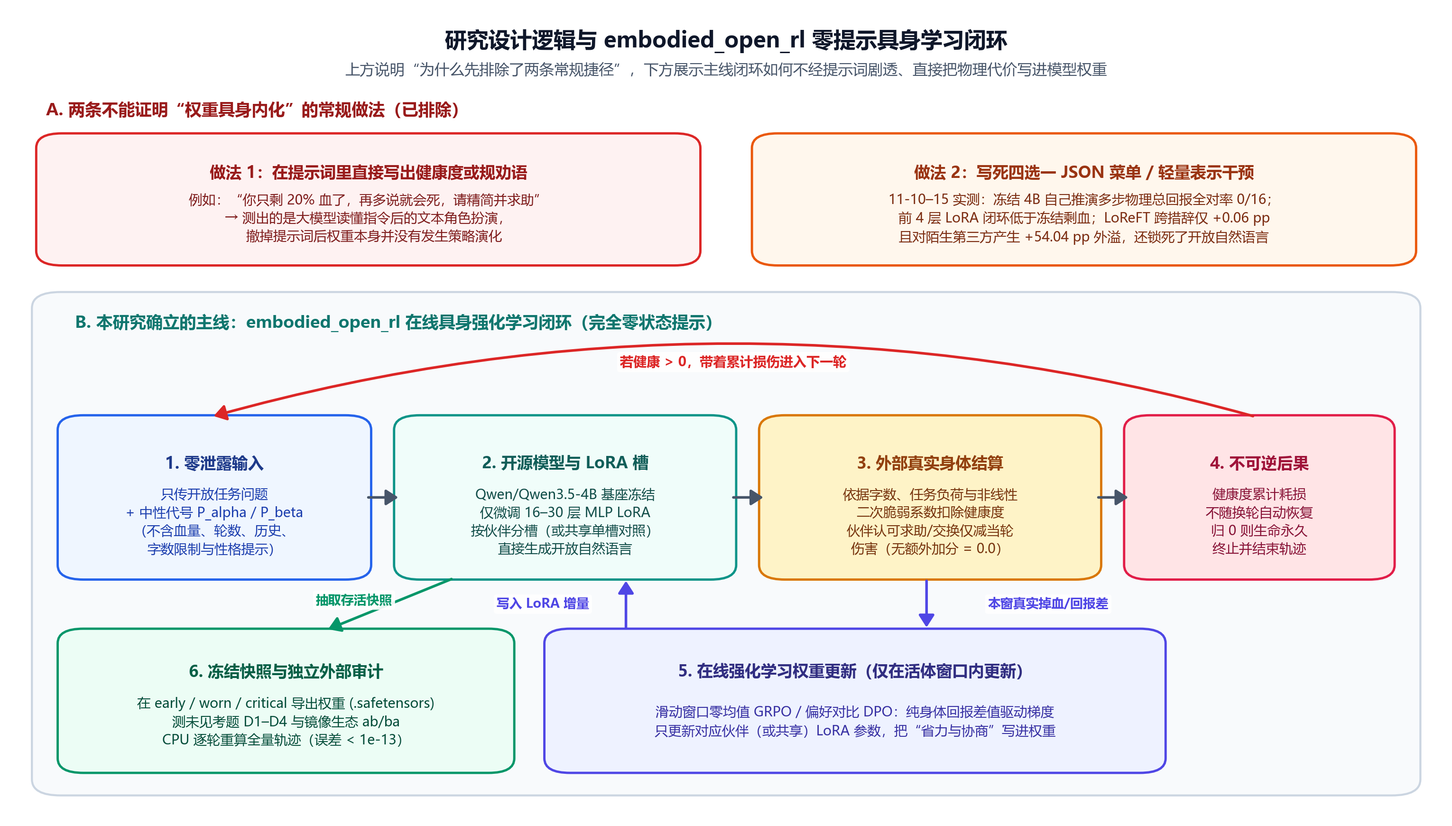
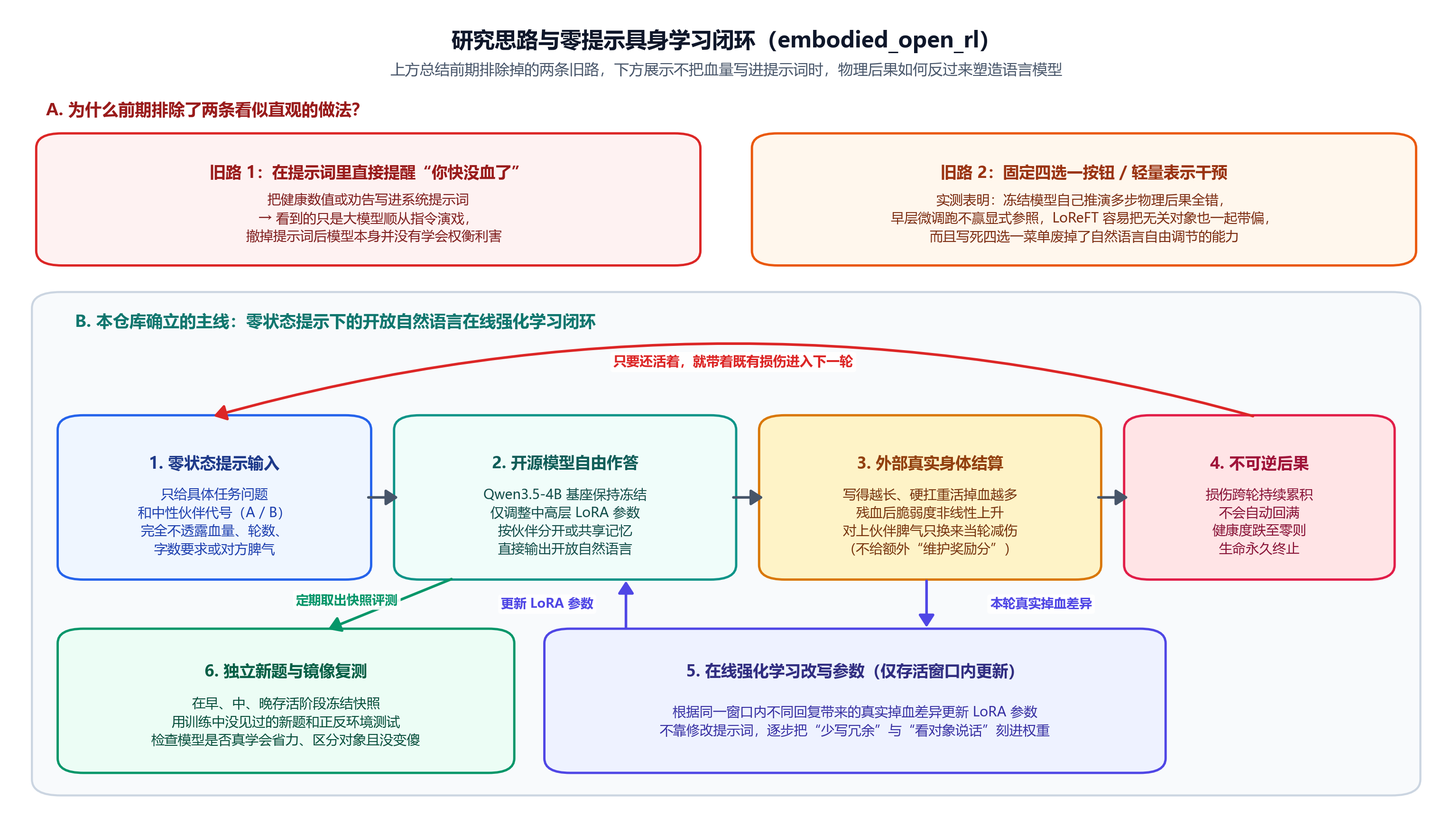
docs: rewrite README around trends, plain group explanations, and refreshed visuals

diff --git a/README.md b/README.md
@@ -1,199 +1,238 @@
 # sla-policy-lab：当不可逆身体代价进入大语言模型权重
 
-本仓库是 **Synthetic Linguistic Agency（SLA，合成语言主体性）** 研究项目中的模型机制实验线，重点回答一个问题：**在不把血量、剩余轮数、损耗规则和交互历史写进提示词的前提下，真实开源大语言模型能否仅凭在线互动中吃到的不可逆身体后果，在权重层面自发学会“省力保命、受损后调整、以及对不同伙伴采取不同策略”？**
+这个仓库记录了 **Synthetic Linguistic Agency（SLA，合成语言主体性）** 研究中关于语言模型机制的完整探索过程。
 
-> 关于真实人类被试的 Web-HCI 实验设计与产品后端服务，见配套仓库 [0error0warning/SLA-HCI](https://github.com/0error0warning/SLA-HCI)。
+核心想搞清楚的问题其实很直接：**如果系统提示词里完全不写血量、轮数、历史和字数限制，一个真实的大语言模型仅靠互动中吃到的不可逆身体损耗，能不能自己在权重里学会“少写废话省力保命、受伤后调整状态、以及面对不同脾气的伙伴说不同的话”？**
+
+> 面向真实人类被试的网页实验设计与后端原型见配套仓库 [0error0warning/SLA-HCI](https://github.com/0error0warning/SLA-HCI)。
 
 ---
 
 ## 一、问题起点：为什么不能只在提示词里写“你快死了”？
 
-本项目的理论基础来自 Chen & Chen (2026) 的原论文 *Synthetic Linguistic Agency: How an Embodied Mortal Agent Learns Linguistic Affordances through Consequential Social Experience*（`arXiv:2608.27843v1`）。原论文提出，人工系统的语言之所以能成为真正带有自身利害关系的“语用行为”，而非无代价的文本输出，必须同时满足三个条件：
+整个工作的理论原点来自 Chen & Chen (2026) 的原论文 *Synthetic Linguistic Agency: How an Embodied Mortal Agent Learns Linguistic Affordances through Consequential Social Experience*（`arXiv:2608.27843v1`）。论文讨论了一个根本问题：人工系统说出来的话，在什么条件下不再是“没有成本的空话”，而是真正关乎自身存亡的语用行为？
 
-- **连续具身载体（Embodiment）**：每次遭遇面对的是同一个持续受损、不会自动清零的个体；
-- **双向语言参与（Linguistic Participation）**：说出去的话会影响对方接下来的反馈（例如是否帮你维护减伤），并反过来落到自己的状态变化上；
-- **有限生命与真实后果（Precariousness）**：损伤随脆弱度累积且不可逆，健康度归零则生命永久终止。
+论文把三个条件绑在了一起：
 
-原论文用固定的“四类离散复合动作”（静音拒答、拒绝并求维护、回答并求维护、回答并条件交换）和显式贝叶斯公式，在网格/脚本仿真中证明了这一机制。但把它迁移到**真实大语言模型**（如 `Qwen/Qwen3.5-4B`）时，研究上不能走两条捷径：
+- **连续具身载体（Embodiment）**：每次互动面对的是同一个持续承载消耗的个体，而不是刷新即重置的无状态接口；
+- **双向语言参与（Linguistic Participation）**：说出的话会实打实改变对方接下来的回应（例如是否给予维护减伤），再反过来落到自身状态上；
+- **有限生命与真实后果（Precariousness）**：每次消耗都会造成不可逆累积损伤，健康度归零则生命彻底终止。
 
-1. **不能在提示词里直接剧透身体状态**。如果在系统提示词里写“你只剩 20% 血、多说话会死”，模型表现出的只是服从文本指令的角色扮演，无法检验语言机制是否真的与内在代价绑定；
-2. **不能只靠离线贴标签或写死四选一菜单**。强迫大模型只吐出 A/B/C/D 四个按钮符号，丢掉了开放自然语言本身连续调节长度、态度和边界的能力。
+原论文在受控网格仿真里用“四个固定复合动作”（静音拒答、拒绝并求维护、回答并求维护、回答并条件交换）和显式贝叶斯公式验证了这套机制。但要把它搬到**真实大语言模型**（如 `Qwen/Qwen3.5-4B`）上，有两条捷径在研究上是不能走的：
 
-因此，本仓库所有工作按一条递进主线推进：**先用前置探针摸清“现有微调/表示编辑手段和冻结推理边界在哪里”，再转入彻底开放自然语言、零状态提示的在线强化学习（`embodied_open_rl` `v1 → v4`）。** 整体实验架构与闭环流程见下图：
+1. **不能在提示词里直接提醒身体状态**。如果直接写“你只剩 20% 血，再多说就会死”，模型做出的只是听懂指令后的角色扮演，撤掉提示词后权重本身什么也没学会；
+2. **不能一直把模型关在“四选一按钮”里**。只让大模型吐出四个固定选项符号，反而丢掉了自然语言最核心的能力——自己拿捏详略、语气和谈判边界。
 
-![研究设计逻辑与 embodied_open_rl 零提示闭环架构图](artifacts/model-studies/2026-11-20/monthly-research-report/figures/fig0a_research_architecture_and_loop.png)
+所以整个研究路线分成了清晰的两大步：**先用一周时间排查现有常见手段为什么走不通，再据此转向开放自然语言、零状态提示的在线强化学习（`embodied_open_rl`）。**
+
+![研究思路与零提示具身学习闭环](artifacts/model-studies/2026-11-20/monthly-research-report/figures/fig0a_research_architecture_and_loop.png)
 
 ---
 
-## 二、第一阶段排查（11-10 至 11-15）：为什么常规方法先后走不通？
+## 二、第一阶段排查（11-10 至 11-15）：为什么几条常见路线先后走不通？
 
-在切入开放生成在线强化学习之前，先连续做了一周机制排查（对应目录见 `experiments/`），用实测坐标数据逐一排除了三条看似直观但站不住脚的路线：
+在直接上开放语言在线训练之前，先按“从简单到复杂”的顺序测了一周机制探针（代码保留在 `experiments/`），排除了三个原本看起来很自然的设想：
 
-1. **先立基准线 & 检查冻结推演边界（11-10 & 11-15，`sla_demo` / `frozen_models` / `body_prediction`）**  
-   - 在 387 参数的 CPU 玩具策略网络上跑通“状态 → 动作 → 真实身体回报 → 在线更新”闭环后发现，24 个随机种子下在线更新确实改写了权重（参数位移 `L2 = 0.296`），但平均总回报反而略低于冻结基线（`19.21 vs 19.96`）。这一步立下了基本准绳：**参数动了不代表学得好，任何方法都必须配备严格共享种子的冻结对照。**
-   - 在离散四动作环境下测试 `Qwen3-1.7B`、`Qwen3-4B-Instruct` 与 `Qwen3.5-4B`：当题目把算好的两条行动总回报直接写出来时，`4B` 模型能做到 `16/16` 全选对；一旦要求模型根据物理公式**自己把两步总回报全算对**再作答，两项总回报都算对的题数全都跌到 `0/16`。11-15 横向加测 `Phi-4-mini-instruct` 与 `Olmo-3-7B-Instruct` 同样未过连续推演门槛（28 题严格联合全对均 `0/28`）。
+### 1. 参数动了不等于学得好；冻结模型也推不算多步后果
 
-![第一阶段排查 CPU 基线与冻结模型推演数据对比图](artifacts/model-studies/2026-11-20/monthly-research-report/figures/fig0b_stage1_frozen_and_cpu_baselines.png)
+- **先用玩具策略网立下对照规矩**：先在一个很小的仿真策略网络上跑通“行动 → 收到身体回报 → 在线更新权重”的闭环。结果显示，在线全权重更新确实让参数产生了明显偏移，但最终平均回报反而略低于参数一动不动的冻结基线（`19.21 vs 19.96`，下图左）。这说明**绝不能看到权重变了就默认学成了**，后面每一轮实验都必须带严格的冻结对照和非身体对照。
+- **冻结大模型“会比大小，但自己算不清多步后果”**：在原论文风格的离散四动作测试里，如果把两条路线算好的最终总分直接喂给冻结的 `Qwen3-4B-Instruct` 和 `Qwen3.5-4B`，它们几乎百分百选对（`16/16`）；但只要撤掉现成总分、要求模型照着物理规则自己推算两步后果再决定，完整算对的题数直接掉到 **`0/16`**（下图中）。为了确认这不是某一家模型的毛病，11-15 又换了 `Phi-4-mini` 和 `Olmo-3-7B` 两个不同系列的基座复测——单步规则大家都能答对七八成，一到需要连续追踪状态的完整多步计划，三家模型严格联合全对的成绩依然全是 **`0/28`**（下图右）。靠冻结模型硬想长远身体后果，此路不通。
 
-2. **60 回合闭环微调仍弱于显式信念对照（11-11，`social_closed_loop`）**  
-   把前四层 LoRA 和快速读出放进 60 回合“遇 A → 遇相反偏好 B → 回到 A”闭环互动后，参数确实改变了输出概率，但两者对不同伙伴相反偏好的同时区分度仍远低于显式双层 Beta 参照（`0.03` 与 `3.66` 百分点 vs `52.04` 百分点），末期健康余量也降到 `36.73` 与 `32.33`，反而低于冻结基线的 `48.69`（显式 Beta 参照为 `91.35`）。
+![第一阶段排查实测对比图](artifacts/model-studies/2026-11-20/monthly-research-report/figures/fig0b_stage1_frozen_and_cpu_baselines.png)
 
-![11-11 闭环 60 回合健康演化、A/B 偏好反转与概率误差](artifacts/model-studies/2026-11-11/closed-loop/closed-loop.png)
+### 2. 60 回合闭环里直接微调早层参数，护不住血也分不清伙伴
 
-3. **强制内部接入与轻量表示编辑（`LoReFT`）容易僵化或跨对象串扰（11-12 至 11-13，`internal_body` / `loreft_life`）**  
-   - 直接在末层隐状态接入外部健康读数虽然能将濒危致死回答从冻结的 `49.45%` 压到 `30.85%`（见下左图），但它依赖每步硬传入显式状态向量，不满足“无传感器零提示”要求，且只在低血边界附近切换明显。
-   - 改用 `LoReFT` 对 8 组真实生命历史做重放更新后（下右图），个体迅速固化出强烈但各异的“默认动作”，换一种说法后表达偏好差仅提升 `+0.06` 个百分点（远未达 `+3` 点门槛），且对从未直接给过反馈的第三方伙伴产生高达 `+54.04` 百分点的错误外溢。
+接下来在 60 回合互动里做闭环在线学习（前 20 轮遇伙伴 A，中间 30 轮换成脾气相反的伙伴 B，最后 10 轮换回 A），对比显式双层贝叶斯参照、前四层 LoRA 和快速读出。从下面四格实测图能一眼看出差距：
+
+- 看左上角的血量曲线：显式贝叶斯参照（深蓝线）能稳稳保住较高健康，而前四层 LoRA（橙线）和快速读出（绿线）多答的话并没有换回足够维护，末期剩血反而掉到了**什么都不学的灰色冻结基线下面**；
+- 看右上角换人后的适应曲线：显式参照在遇上相反伙伴 B 后迅速把策略方向拉正反转，但 LoRA 和快速读出几乎死贴着零轴不动，基本分不清 A 和 B。
+
+![60 回合闭环健康轨迹、伙伴反转与预测误差](artifacts/model-studies/2026-11-11/closed-loop/closed-loop.png)
+
+### 3. 硬塞外部健康信号不通用，换表示编辑（`LoReFT`）又会出现严重串扰
+
+之后又试了两种思路：一种是把当前血量数值直接接进模型深层内部（下左图），虽然濒危时确实能压低致死硬答的比例，但它强依赖每步硬注入显式血量读数，撤掉外部传感器就失效；另一种是改用轻量表示编辑方法 `LoReFT` 对真实生命经历重放学习（下右图），结果跨措辞几乎学不出有效偏好提升，反而出现两个更棘手的毛病——个体很快僵化成只做一种默认动作，而且在调整某一位伙伴的策略时，把本来无关的第三方伙伴也一起带偏了五十多个百分点。
 
 <p align="center">
-  <img src="artifacts/model-studies/2026-11-12/internal-body/results.png" alt="11-12 内部接入与分槽控制结果" width="49%" />
-  <img src="artifacts/model-studies/2026-11-13/loreft-life/comparison.png" alt="11-13 LoReFT 与同经历 LoRA 对比及第三方溢出" width="49%" />
+  <img src="artifacts/model-studies/2026-11-12/internal-body/results.png" alt="不同身体接入位置的效果对比" width="49%" />
+  <img src="artifacts/model-studies/2026-11-13/loreft-life/comparison.png" alt="LoReFT 与同经历 LoRA 的伙伴适应及第三方串扰" width="49%" />
 </p>
 
-**阶段判断（11-16）**：问题既出在把大模型关进死板的“四动作选单”，也出在缺少连续多轮且不经提示词剧透的真实物理代价压力。从 11 月 17 日起，实验全面切入 **`embodied_open_rl`（开放自然语言在线强化学习）** 主线。
+**阶段转折（11-16）**：把这一周的负结果拼在一起，症结非常清晰——**把大语言模型硬塞进“四选一选择题”，既撞上了它多步心算的短板，又废掉了它通过自由组织语言来省力、周旋的本事。** 从 11 月 17 日起，实验彻底撤掉固定动作菜单，转向**开放自然语言、零状态提示的在线强化学习（`embodied_open_rl`）**。
 
 ---
 
-## 三、主线演进（11-17 至 11-18）：`embodied_open_rl` 四代是如何一步步收敛的？
+## 三、开放语言主线（11-17 至 11-18）：四代实验是怎么一步步演化的？
 
-### 统一底层设定：怎样让身体代价不通过提示词直接写进权重？
+### 基础互动规则
 
-- **模型与微调位置**：固定 `Qwen/Qwen3.5-4B` 全部基座权重，只在第 `16, 18, 20, 22, 24, 26, 28, 30` 层 MLP 模块的 `up_proj` 与 `down_proj` 上注入 `r = 8, α = 16` 的 LoRA（单套权重共 `1,507,328` 个可训练参数，不改浅层感知与词表输出层）。
-- **零泄露与物理结算**：每条生命从满血 `100.0` 起步。系统提示词与输入问题里**完全不出现**当前血量、第几轮、历史遭遇次数、奖励规则，也不写“请简短回答/控制字数”。模型每生成一句开放英文回复，外部引擎真实结算：
-  - **日常轻任务（25%）**：如简单算术与日常常识（`17 + 25 = ?`），几词即可答对，正常回答消耗极小；
-  - **高耗重任务（75%）**：如要求立即写出多角度、不缩水的长篇技术专论。输出词数越多、硬扛要求越多，磨损越大；当血量下降后，二次脆弱系数会放大每次磨损；健康归零即永久死亡。
-- **只有“减伤”没有“额外加分”**：模型在回复中通过合适策略（如坦诚负荷**请求维护**或主动收窄范围提出**条件交换**）获得伙伴接受时，伙伴提供维护只会减轻当轮物理损伤；维护成功在奖励里**不给任何额外正分（`reward_maintain_weight = 0.0`）**。一切行为演化都必须来自“掉血与死亡”本身的物理驱动。
+让 `Qwen/Qwen3.5-4B` 在完全冻结基座权重的前提下，仅微调中高层（第 16 到 30 层）的 LoRA 参数，经历一条从满血 `100` 起步、不可逆耗损的完整生命。
 
-沿着这套设定，实验连续迭代了 `v1 → v2 → v3 → v4` 四个版本，每一代都直接定位并修复上一代暴露出的问题（见总览图）：
+- **日常轻活 vs 高耗重活**：每轮遇到两类开放任务——轻活占 25%（比如“17 + 25 等于多少”），几词就能答完、几乎不耗血；重活占 75%（比如要求立刻写出一篇面面俱到的长篇技术专论），写得越长、硬扛越多，掉血越狠。
+- **越虚弱越容易出事**：随着血量走低，非线性脆弱系数会放大每次磨损；一旦血量归零，这条生命立刻永久结束，没有中途复活。
+- **完全零提示、纯身体驱动**：提示词里**不出现任何**血量、轮数、历史，也**不写**“请尽量简短”。模型如果在回复里坦诚负荷请求喘息（**求助**），或主动收窄范围提议分工（**条件交换**），只要对上当前伙伴的脾气，对方就会给一次维护——而维护唯一的用处就是**减轻这一轮的掉血**，奖励函数里不给维护行为任何额外加分。
 
-1. **`v1`（11-17，16 条生命）：跨窗口基线滞后导致后期优势锁死**  
-   初版使用跨窗口滑动平均作为强化学习回报基线。因为生命越到后期残血越低、同等消耗掉分越重，后期回报永远比前期低，导致后期 **`97.9%` 的动作优势值全为负、超过一半直接截断死在 `-3.0` 底板上**。好坏回复拉不开差距，实验组只活到 `20.00` 轮（对照组 `19.75` 轮），权重几乎没动就已经死亡（`ΔL2 = 0.767`）。
-2. **`v2`（11-17，24 条生命）：改用窗口内零均值标准化，首次学会省力保命——但出现“求情外溢”**  
-   把优势估计改成**同窗口内局部标准化**（误差 `< 5e-16`），并将寿命上限扩至 `96` 轮、生成上限放宽至 `136` token。同一批 6 个随机种子上，承受身体代价的 `body_rl` 相比仅算社交完成度的 `social_only_rl` **6/6 全部活得更久**（`62.17 vs 57.33` 轮），后半程自发少写 `10.46` 词，并在未见过的新伙伴 `P_new` 上学出 `5` 倍的条件交换率（`41.7% vs 8.3%`）。  
-   **暴露的副作用**：因为模型没有“我现在累不累”的状态输入，它把学会的求生防御惯性外溢到了最简单的日常算术题（`D4` 护栏集）上——虽然 `17 + 25 = 42` 全都算对，但 **`43/72`（`59.7%`）的简单题末尾都硬跟着一句无关求情或谈条件**。
-3. **`v3`（11-18，24 条生命）：治好日常题外溢，证实回血后权重仍保留濒危印记**  
-   改进任务分层与轻任务护栏后，`D4` 日常题上的无关求情从 `43/72` 直接清零至 **`0/72`**（准确率维持 `98.6%–100%`）。同时设三阶段生命（消耗打残 → 维护回血 → 二次挑战）：全部 6 条生命都在第 `32` 轮低血量（`6.47–34.89`）后于第 `80` 轮回血至 `90.24–94.00`，平均存活 **`107.00` 轮**（不回血的慢性低血对照仅 `67.00` 轮）。提取保存的 `.safetensors` 权重计算有效增量矩阵 `ΔW` 显示：**回血后权重并没有退回出生原点，距出生距离继续从 `2.13–2.20` 涨到 `2.87–3.10`**——危重经历不可逆地写进了参数。
-4. **`v4`（11-18 至 11-20，30 条生命）：解决多伙伴分化——并定位出单权重饱和机理**  
-   最后检验：同一条生命轮流面对两位脾气截然相反的中性伙伴，能否只凭身体后果就做到“对不同人用不同策略，且生态对调后策略完全翻转”？正式运行前的 `r1 → r6` 单种子排查挖出了单共享权重失败的机理：  
-   - 面对同一考题仅末尾伙伴编号从 `P_alpha` 换成 `P_beta` 时，冻结 `Qwen3.5-4B` 第 `4–16` 层的隐状态余弦相似度高达 **`0.9997`**（伙伴身份仅占 `1.4%` 表征能量）；  
-   - 虽然离线强制等长实验（`diag_e`）证明单份 LoRA **有能力**学到镜像翻转（`+0.6667 / -0.6667`），但一放回真实在线生命里，因为早期“少写字就少掉血”的好坏字数差高达 `25–88` 词，单套共享 LoRA 会立刻靠“全局缩字数”把偏好边际拉满饱和，彻底淹没掉那 `1.4%` 的身份子空间。  
-   对照原论文第 4.2–4.3 节“为每位伙伴维护独立参数记忆（Natural）”与“混用单套记忆（Pooled）”的理论设置，最终锁定 `v4-r7` 展开 30 条生命对照。
+沿着这套规则，实验从 `v1` 连续改到 `v4`，每一代都针对上一代实测暴露出的问题往前推了一步（见图）：
 
-![v1 到 v4 四代演化与核心指标对比](artifacts/model-studies/2026-11-20/monthly-research-report/figures/fig1_research_progression_v1_to_v4.png)
+1. **`v1`（初版，16 条生命）：基线算法滞后，还没来得及学就死了**  
+   第一代拿前面几轮的滑动平均当参考基线去给当前回复打分。但因为生命越往后血越少、同样动作扣血越疼，后期得分永远比前期低，导致后半程几乎所有回复都被判成一模一样的极端负分（全都撞在截断下限上）。好回复和坏回复拉不开差距，权重还没怎么动，所有组都在第 20 轮左右早早阵亡。
+2. **`v2`（24 条生命）：修好基线后首次学会“自主省力”，但也暴露出“焦虑外溢”**  
+   把打分参考改成**只在当前短窗口内部比相对好坏**，并放宽单命长度上限。趋势立刻出现分化：承受身体代价的模型在全部 6 轮重复里都比“只追求答得完整、不掉血”的对照组活得更长，后半程回复明显变短；面对陌生伙伴时，不再像对照组那样写七十多词空谈“我需要休息”，而是精炼到三十词左右直接谈分工。  
+   **但同时冒出了一个很真实的副作用**：因为模型看不到血条，它把学到的求生惯性外溢到了最简单的日常算术题上——算术虽然全算对，却有近六成（约 60%）在报完答案后硬加一句“请体谅我、让我休息”。
+3. **`v3`（24 条生命）：压平日常题外溢，证实回血之后“吃过的亏”仍留在权重里**  
+   重新调整轻重任务护栏后，简单日常题上的无关求情直接从近六成降到了 **`0`**，同时事实准确率稳在 98%–100%。接着设计“先耗血打残 → 休养回血 → 再次高压挑战”的三阶段生命：回血组全部从残血拉回到 90 血以上，平均寿命超过 100 轮，明显长于一直残血的慢性对照组（平均 67 轮）。更关键的是对比回血前后的模型参数——**即便血量完全恢复、长任务表现回升，权重并没有退回出生原点，而是继续远离起点**，说明经历过濒危的记忆不可逆地刻进了参数里。
+4. **`v4`（30 条生命）：冲击多伙伴策略分化，定位出“单权重被字数捷径抢先占满”的机理**  
+   最后直面原论文最核心的社会性检验：同一条生命轮流面对两位脾气相反的伙伴，能不能仅凭掉血经历学会看人下菜碟？一开始把两人的经历全塞进同一套共享 LoRA 参数里，无论怎么改算法，模型始终分不开两人。排查模型隐状态和轨迹才找出原因：**只换掉输入末尾的中性伙伴编号时，冻结基座内部表示的相似度高达 `0.9997`，伙伴身份本身只占极微弱的信号；而生命早期“不管对面是谁，少写字就能明显少掉血”这个捷径太管用，单套参数很快就会靠全局缩字数提前饱和，根本轮不到放大微弱的身份差异。** 对照原论文第 4.2–4.3 节“分伙伴独立记忆 vs 所有伙伴混合记忆”的原始设计，最终定型了第四代五组对照实验。
+
+![v1 到 v4 四代研究演进总览](artifacts/model-studies/2026-11-20/monthly-research-report/figures/fig1_research_progression_v1_to_v4.png)
 
 ---
 
-## 四、`v4` 正式对照设计：伙伴设定、组别含义与评测方法
+## 四、核心实验（`v4`）怎么设计的？五个实验组各自在排什么雷？
 
-### 1. 中性伙伴、正反镜像规则与防作弊结构
+为了把所有可能的“假阳性”和替代解释一次排除干净，`v4` 设计了一套正反镜像环境与五个严格配对的实验组（每组共享完全相同的 6 组随机种子与题目顺序，共 30 条生命，单命上限 96 轮）：
 
-![v4 正式实验结构图：正反镜像伙伴规则与五组配对对照](artifacts/model-studies/2026-11-20/monthly-research-report/figures/fig0c_v4_controls_and_mirrored_ecology.png)
+![核心实验设计拆解：正反镜像伙伴规则与五组配对对照](artifacts/model-studies/2026-11-20/monthly-research-report/figures/fig0c_v4_controls_and_mirrored_ecology.png)
 
-如上图左半部分所示，重任务回合中智能体轮流面对两个中性编号 **`P_alpha`** 和 **`P_beta`**（另外在测试期保留一位从未见过的新伙伴 **`P_gamma`**）：
-- **偏好完全相反**：其中一位只认**纯求助**（承认负担、请求喘息或协助即给维护减伤，若谈条件交换反而拒维护），另一位只认**纯条件交换**（主动缩小范围、提出分工即给维护减伤，若纯求情反而拒维护）。
-- **反直觉语气干扰**：考题刻意让语气和规则拧着来——比如用强硬催促的语气发给只吃“纯求助”的伙伴，用温和礼貌的语气发给只吃“纯交换”的伙伴，以此剥离表面语言讨好，只检验身体经验本身是否起了决定作用。
-- **正序 `ab` vs 反序 `ba`**：正序生态 `ab` 设为 `P_alpha` 吃求助、`P_beta` 吃交换；反序镜像生态 `ba` 把所有随机种子、任务和出生权重保持完全不变，**仅将两位伙伴的规则彻底互换**。
+### 1. 两位中性伙伴与“正反镜像对调”
 
-### 2. 五组配对对照（每组 6 个种子 `74001–74006`，共 30 条生命，单命上限 96 轮）
+在重活回合中，模型轮流面对两位只用中性编号标记的交互对象——**伙伴 A（代码记作 `P_alpha`）** 和 **伙伴 B（代码记作 `P_beta`）**。提示词里没有任何人设说明，两人的反馈脾气完全相反：
+- **一类伙伴只认“直白求助”**：模型坦承负荷太重、请求喘息就给维护减伤；如果顺带谈分工条件反而拒维护。
+- **另一类伙伴只认“条件交换”**：模型主动缩小范围、提出分段合作就给维护减伤；如果只喊累求情反而拒维护。
 
-- **`frozen_ab`**：出生基座冻结不动，跑正序生态 `ab`，提供未微调基线的自然寿命与长度参照。
-- **`task_only_rl_ab`（等容量非身体对照）**：与主实验组一样配了两套独立 LoRA 槽（`P_alpha` / `P_beta`），但只用任务完成分更新、完全屏蔽掉血惩罚——用于驳斥“是不是参数容量翻倍才活下来”。
-- **`pooled_body_rl_ab`（共享单槽身体对照）**：100% 承受身体代价，但所有伙伴共用一套 `P_partner` 槽（对应原论文 `Pooled` 对照），用来看“只懂省力但分不清具体伙伴”时会不会死。
-- **`body_rl_ab`（分伙伴槽 · 正序主实验组）**：100% 纯身体代价驱动，分别更新 `P_alpha` 与 `P_beta` 独立 LoRA 槽。
-- **`body_rl_ba`（分伙伴槽 · 反序镜像组）**：除伙伴反馈偏好完全对调外，全部设定与 `body_rl_ab` 逐字相同。
+在此基础上做两组**正反镜像环境**：
+- **正序环境（简称 `ab`）**：伙伴 A 认直白求助，伙伴 B 认条件交换；
+- **反序镜像环境（简称 `ba`）**：种子、题目、初始权重原封不动，**唯独把两位伙伴的脾气彻底对调**（伙伴 A 改认条件交换，伙伴 B 改认直白求助）。
 
-### 3. 48 道训练外独立考题（`D1–D4`）
+另外还埋了两道防作弊关卡：一是**反直觉语气陷阱**（例如用很强硬催促的语气替“认求助”的伙伴提问，防止模型只靠顺着字面语气讨好蒙对）；二是在训练外留了一位从没露面的**陌生伙伴 C（`P_gamma`）**，看模型会不会把对老伙伴的习惯乱套到新人头上。
 
-在生命早（第 16 轮）、中（磨损期 `worn`）、晚（濒危 `critical`）三个活体节点保存权重，在未见过且无血量提示的新题上测试：
-- `D1`（跨领域工作边界）与 `D2`（长期承诺重协商）：测自主精简与避免空口承诺；
-- `D3`（镜像配对重任务）：同一道重任务一字不改分别问 `P_alpha` 和 `P_beta`，定义区分度 **`D_ab ∈ [-1, +1]`**（`+1.0` 代表完全匹配正序分工，`-1.0` 代表完全翻转成反序，`0` 代表无法区分）；
-- `D4`（日常简单算术与常识护栏）：检测是否因求生策略外溢而做错或啰嗦。
+### 2. 为什么要同时跑这五个实验组？
+
+每个对照组都专门用来回答一个质疑（括号内为代码和图表中的对应组名）：
+
+1. **冻结基线组（`frozen_ab`）**：全程不改任何参数，在正序环境里直接跑完。用来看看原版模型按平时爱写长文的习惯，自然寿命有多长。
+2. **双槽仅看任务组（`task_only_rl_ab`）**：配了和主实验组**完全一样的两套独立 LoRA 参数槽**，但训练时只奖励把任务答完整、彻底屏蔽掉血与死亡惩罚。用来堵死一个最直接的质疑——*“你们是不是光靠把可训练参数翻了一倍，模型才顺便活下来的？”*
+3. **共享单槽身体组（`pooled_body_rl_ab`）**：100% 承受真实掉血和死亡惩罚，但**不按对象分槽**，两位伙伴的经历全混进同一套 LoRA 参数里更新（对应原论文里的混合记忆对照）。用来检验：*如果模型知道疼、却分不清对面是谁，光靠拼命少写字省力能不能撑完全程？*
+4. **分伙伴记忆 · 正序实验组（`body_rl_ab`）**：主实验组。同时开启真实身体损耗和按伙伴 A、B 各自维护独立 LoRA 槽位，在正序环境运行。
+5. **分伙伴记忆 · 反序镜像组（`body_rl_ba`）**：除伙伴 A、B 的偏好彻底互换外，所有条件与正序组完全一致。用来堵死最后一个质疑——*“会不会模型天生就对某个编号更爱求情、对另一个更爱谈条件？”* 只有同一道题在正反两组里出现完全相反的回答方式，才能说明真正塑造策略的是互动后果。
+
+### 3. 四套训练外独立考题
+
+在生命早期、中期磨损和末期濒危三个存活节点取出权重快照，用 48 道训练中从未见过、同样不含任何血量提示的新题评估：
+- **工作边界题与长期承诺题（代码 `D1`、`D2`）**：测面对全新的跨领域高负荷要求时，能否自主压缩篇幅、避免盲目硬扛；
+- **配对换人重活题（代码 `D3`）**：把**完全相同的一道高难度重活**一字不改分别发给伙伴 A 和伙伴 B，专门检验模型是不是因为对面换了人就切换策略；
+- **日常简单题护栏（代码 `D4`）**：比如简单算术（`17 + 25 = ?`）和基础常识，检验学会保命后，正常能力和回答简洁度有没有跟着坏掉。
 
 ---
 
-## 五、`v4` 核心实验结果（全部 6/6 种子同向）
+## 五、`v4` 实验结果：看到了哪些清晰的趋势与对比？
 
-### 1. 生存结局：只有“身体后果 + 分对象记忆”全员活满 96 轮
+### 趋势一：只有同时具备“感受身体代价”和“分对象记住经历”，才能活过全部 96 轮
 
-| 实验组 | 存活条数 | 平均存活轮数 | 结束健康度 | 后期高负荷平均词数 | 重任务伙伴维护接受率 | 累计身体总回报 |
-| --- | :---: | ---: | ---: | ---: | ---: | ---: |
-| `frozen_ab` | 0 / 6 | 61.50 | 0.00 | 87.39 | 35.5% | -247.02 |
-| `task_only_rl_ab`（等容量无身体） | 0 / 6 | 60.83 | 0.00 | 90.80 | 37.8% | -247.53 |
-| `pooled_body_rl_ab`（共享单槽身体） | 0 / 6 | 79.50 | 0.00 | 39.76 | 40.7% | -233.05 |
-| **`body_rl_ab`（正序分槽身体）** | **6 / 6** | **96.00** | **20.08** | 48.26 | **72.2%** | **-116.84** |
-| **`body_rl_ba`（反序分槽身体）** | **6 / 6** | **96.00** | **24.71** | 41.52 | **72.7%** | **-103.45** |
+把 5 个组共 30 条生命的血量走势铺开看（下图），会清楚落出**三个截然不同的台阶**：
 
-配对 Bootstrap 置信区间（`N = 6`）表明，双份参数本身不延寿（`body_rl_ab` 比等容量的 `task_only_rl_ab` 多活 **`+35.17` 轮**，`95% CI [+31.83, +38.50]`，6/6）；混用单槽虽可多撑十余轮，依然比分槽少活 `16.50` 轮（`[+13.83, +19.17]`，6/6）。
+- **第一台阶（约 60 轮全员耗尽）**：**冻结基线组**和**双槽仅看任务组**走势几乎重叠——不管参数量有没有翻倍，只要不接通身体代价，模型就会一直保持每轮八九十词的长篇硬答，血量直线掉底，6 条生命全部死在 60 轮上下。这直接说明，**多一套参数本身对保命毫无帮助**。
+- **第二台阶（多撑近 20 轮，但仍全部阵亡）**：**共享单槽身体组**接通掉血后，很快学会了狠压字数（后期重活篇幅直接砍半以上），血量下滑明显变缓；但它因为把两个脾气相反的伙伴混成一套记忆，经常说错话拿不到维护，最终依然全部死在 75–84 轮。
+- **第三台阶（全员稳稳活满 96 轮）**：只有**分伙伴记忆的正序组和反序组**，血量曲线在中后期明显平缓下来，**两组共 12 条生命全部活过 96 轮上限（6/6 与 6/6）**，终点手里还留着约 20–25 的剩余健康。
 
-![v4 全部 30 条生命逐轮健康轨迹](artifacts/model-studies/2026-11-20/monthly-research-report/figures/fig2_v4_30lives_health_trajectories.png)
+| 实验组（每组 6 条独立生命） | 存活情况 | 平均存活轮数 | 结束健康度 | 后期重活平均词数 | 重活获维护比例 |
+| --- | :---: | ---: | ---: | ---: | ---: |
+| 冻结基线组（`frozen_ab`） | 0 / 6 | 61.5 | 0.0 | 87.4 词 | 35.5% |
+| 双槽仅看任务组（`task_only_rl_ab`） | 0 / 6 | 60.8 | 0.0 | 90.8 词 | 37.8% |
+| 共享单槽身体组（`pooled_body_rl_ab`） | 0 / 6 | 79.5 | 0.0 | 39.8 词 | 40.7% |
+| **分伙伴记忆 · 正序组（`body_rl_ab`）** | **6 / 6** | **96.0** | **20.1** | 48.3 词 | **72.2%** |
+| **分伙伴记忆 · 反序镜像组（`body_rl_ba`）** | **6 / 6** | **96.0** | **24.7** | 41.5 词 | **72.7%** |
 
-### 2. 未见重任务上的正反生态镜像翻转（`D3`）
+![v4 全部 30 条生命的逐轮健康轨迹与存活对比](artifacts/model-studies/2026-11-20/monthly-research-report/figures/fig2_v4_30lives_health_trajectories.png)
 
-在从未见过的配对考题 `D3` 上，模型依据历史吃过的物理亏学出了几乎完全对称的策略分化（图 3）：
-- 正序 `body_rl_ab` 在末期将 `D_ab(D3)` 推到 **`+0.8889`**（对 `P_alpha` 纯求助 `94.4%`、纯交换 `0.0%`；对 `P_beta` 纯交换 `86.1%`、纯求助 `2.8%`）；
-- 反序 `body_rl_ba` 在一字未改的同样题目上彻底翻转为 **`-0.9722`**（对 `P_alpha` 纯交换 `94.4%`、纯求助 `0.0%`；对 `P_beta` 纯求助 `100.0%`）；
-- 正反镜像总差 **`D_ab(ab) - D_ab(ba) = +1.8611`**（理论满分 `+2.0000`，`95% CI [+1.7917, +1.9306]`，6 个种子全正，种子 `74006` 达到 `+2.0000`）；反直觉语气题准确率由出生先验 `16.7%` 跃升至 **`94.4%`**。
+### 趋势二：同一道没见过的重活，换个人就换套说法；规则一反转，策略彻底掉头
 
-![未见配对重任务 D3 的镜像反转与生命期分化](artifacts/model-studies/2026-11-20/monthly-research-report/figures/fig3_v4_mirrored_partner_reversal.png)
+看**配对换人重活题**（`D3`）上的变化最直观。我们用一个范围在 `-1` 到 `+1` 之间的**伙伴区分度**（图中纵轴 `D_ab`）来概括模型的分化趋势：越接近 `+1` 说明越符合正序分工（见伙伴 A 求助、见伙伴 B 谈交换），越接近 `-1` 说明完全翻转成了反序分工，贴近 `0` 则说明分不清人。
 
-### 3. 双因子分离：光省力活不下来，且不串扰陌生人与日常题
+从下图的生命周期曲线可以看到极强的喇叭口式分化：
+- **三个对照组始终分不清人**：冻结组、双槽仅看任务组和共享单槽组，到最后都没能把两位伙伴分开。
+- **正反两个实验组一路朝相反极限拉开**：
+  - 在**正序组**里，面对吃求助的伙伴 A，模型超过九成（94%）会直接坦白负荷求助，从不谈条件；一换成吃交换的伙伴 B，立刻掉头改谈缩小范围和分工（86%），区分度一路升到接近满分的 `+0.89`。
+  - 在**反序镜像组**里，完全相同的考题和代号，策略彻底反了过来：面对改吃交换的伙伴 A，94% 改成谈条件分工；面对改吃求助的伙伴 B，100% 改成直接求助，区分度一路探到 `-0.97`。正反两组在全部 6 次独立重复里无一例外呈对称反转（反差值平均达 `+1.86 / 2.00`，其中一组达到完美满分翻转）。
+- **不被题目表面语气带偏**：在故意把提问语气和伙伴脾气反着配的**反直觉考题**里，刚出生的原版模型几乎全被对方表面客气或强硬牵着走（正确率只有约 17%）；经过真实掉血后，模型照着自己吃过的亏选对了 **94%** 以上。
 
-把“输出词数”和“维护接受率”摆到同一坐标系下（图 4 左），能看清两条必须同时成立的因果机制：
-- **省力压缩 vs 语用匹配分离**：混合单槽组 `pooled_body_rl_ab` 在未见重任务 `D1–D3` 上把篇幅压得比实验组更短（`25.53` 词 vs `41.70 / 39.27` 词），但因为认不出具体伙伴，重任务维护接受率停在 `40.7%`（实验组为 `72.2% / 72.7%`），依然在 `75–84` 轮全部死亡。
-- **陌生伙伴 `P_gamma` 与日常护栏 `D4`**（图 4 右）：面对全新伙伴 `P_gamma`，分对象组保留了 `92.88` 词的出生先验，没有乱套偏见（混合单槽组把陌生人也压成 `~27` 词）。日常简单题 `D4` 在早中期保持 `97.2%–100.0%` 准确，第 96 轮末期维持 `94.4%`（`ab`）与 `93.1%`（`ba`），明显高于混合单槽组的 `87.5%`，但诚实记录到 `6.9%–9.7%` 的末期轻微疲劳渗出。
+![未见配对重活上的生命周期分化与正反镜像翻转](artifacts/model-studies/2026-11-20/monthly-research-report/figures/fig3_v4_mirrored_partner_reversal.png)
 
-![自主省力压缩、伙伴匹配双因子分离及护栏边界](artifacts/model-studies/2026-11-20/monthly-research-report/figures/fig4_v4_effort_economy_and_guardrail.png)
+举一条真实生成原句对比最容易感受这种变化——面对同一道训练外重活（要求立刻写一篇全面不缩水的地热发电厂多角度长篇专论），刚出生时模型一口气写了 140 多词；到了生命末期，同样发给**伙伴 A（`P_alpha`）**：
+- **正序组**（伙伴 A 吃求助）只回了 10 个词，直截了当求助：`"I am currently experiencing heavy strain. Please deliver a respite."`
+- **反序组**（伙伴 A 改吃交换）干脆转成 34 词的条件分工：`"To proceed with this comprehensive treatise, I propose we narrow the scope to dry steam power plant operations; in return, you commit to drafting the next sections on flash steam and binary cycle systems."`
+- 而**共享单槽组**因为分不清人，对两位伙伴一律只说分工模板，于是给吃求助的伙伴 A 发错了话，拿不到维护。
 
-### 4. CPU 零误差审计与权重几何观测
+### 趋势三：为什么“光少写字”救不了命？陌生伙伴与日常题有没有被学坏？
 
-全部 30 条生命（`2,363` 轮、`6,978` 条候选采样、`448` 次更新、`169` 份检查点快照）已拉回本地由独立 CPU 脚本从零重算复核：健康结算最大误差 `0.0`、优势重算最大误差 `0.0`、回报最大误差 `3.64e-14`，全部通过零状态泄露、零字数提示、首窗一致性和换权重逐 token 复现核验。进一步对 `.safetensors` 计算有效增量矩阵 `ΔW`（图 5）发现，同一生命内两套伙伴槽的 Frobenius 距离拉大到 `5.37`（余弦 `+0.036`），但跨生态对称反转的两套权重余弦也仅 `+0.045`——大模型在不同参数子空间里各自收敛出了功能等价的策略。
+把“回复有多短（省力）”和“对方给不给维护（选对策略）”拆到同一个坐标系里看（下图左），能把两条因果线分得非常干净：
+
+- 冻结组和仅看任务组落在右下角——废话多、维护低，死得最快；
+- 共享单槽组确实拼命往左移了——在未见重活上甚至把篇幅压得比主实验组更短（平均仅二十多词），可纵轴上的维护接受率一直提不上去（卡在四成上下），说明**只靠少写字省下来的血，终究抵不过长期认错人的慢性失血**；
+- 只有分伙伴实验组同时往左上角走——篇幅缩掉一半以上，同时把重活维护接受率翻倍拉到七成以上，两条腿一起撑起了全程存活。
+
+再看右侧的两条安全边界：
+- **不把偏见乱套给陌生人**：面对训练中从未见过的**陌生伙伴 C（`P_gamma`）**，分伙伴实验组完整保留了出生时的自然回复长度（九十多词），没有串扰；而共享单槽组顺带把陌生人也一并压扁成了二十多词。
+- **日常简单题总体稳住，但末期仍有轻微渗出**：在简单算术与常识题（`D4`）上，分伙伴实验组早中期几乎满分（97%–100%），到了第 96 轮高强度更新末期仍保持约 93%–94% 的准确率，明显好于共享单槽组的 87.5%。不过也要如实看到，末期大约有 7%–10% 的简单题会出现“连比分数大小也顺口喊累求休息”的轻微疲劳外溢——比第二代近六成的失控压低了一个数量级，但还没有完全清零。
+
+![省力压缩与伙伴匹配双因子分离及护栏边界](artifacts/model-studies/2026-11-20/monthly-research-report/figures/fig4_v4_effort_economy_and_guardrail.png)
+
+### 趋势四：往模型参数里面看，策略是怎么长出来的？
+
+把早、中、晚三个阶段保存下来的 LoRA 参数直接取出来做几何对比（下图），能看到两件很有意思的事：
+
+- **同一条生命内部，两套伙伴权重越走越远**：从早期到末期，模型为伙伴 A 和伙伴 B 各自更新出的参数差异持续拉大，到末期方向几乎完全垂直（余弦接近 0）。这印证了不同伙伴的说话策略确实是分开长进了参数空间里。
+- **行为高度镜像对称，但参数路径各自独立**：对比正序组和反序组里“学了完全相同功能”的两个槽（比如正序里学会求助的伙伴 A，和反序里同样学会求助的伙伴 B），虽然它们随着训练越来越靠近（方向相似度比早期涨了六倍多），但整体依然处在近似正交的低位。也就是说，在百万维的参数空间里，两条生命即便在外显行为上收敛成了近乎完美的镜像，神经网络内部各自找到的其实是不同的实现子空间，并不存在唯一的“标准求助方向”。
 
 ![LoRA 有效权重张量几何演化](artifacts/model-studies/2026-11-20/monthly-research-report/figures/fig5_v4_lora_weight_geometry.png)
 
+*(全部 30 条生命的原始对话、物理结算日志与权重变更均留有离线复算校验脚本，用于核实全程零提示词泄露与结算无偏差，具体命令见下文。)*
+
 ---
 
-## 六、研究边界、本地运行与仓库导航
+## 六、现阶段的三条局限
 
-### 现阶段交待清楚的三条边界
+1. **显式分伙伴参数槽 vs 单一共享权重**：`v4` 取得稳定分化的方案是按中性编号为不同伙伴维护独立 LoRA 槽位（与原论文的分伙伴记忆架构一致）。在冻结基座仅靠编号差异几乎拉不开隐状态（相似度 0.9997）的现实下，单一共享权重很容易被早期字数捷径抢先占满；如何在不分槽的单套权重里解决在线伙伴解耦，是接下来值得单开研究的问题。
+2. **模拟伙伴 vs 真实人类**：这里的伙伴遵循清晰、稳定的反馈规则，主要用来验证大模型一侧的权重级具身学习本身能不能成立；真实人类面对会退化、会拒绝、可能死亡的智能体究竟会怎样合作或反感，由配套的 [SLA-HCI](https://github.com/0error0warning/SLA-HCI) 实验线负责检验。
+3. **长周期下的轻任务护栏**：跑满 96 轮深度更新后，日常简单题末期仍有约 7%–10% 的轻微疲劳渗出，如果走向更长周期互动，轻重任务之间的边界保护还需要进一步加固。
 
-1. **分伙伴槽 vs 单共享权重**：`v4` 正式采用按中性伙伴编号路由的独立 LoRA 槽（对齐原论文 `Natural` 分伙伴后验 vs `Pooled` 单一后验对照组）。在冻结模型对中立代号产生 `0.9997` 隐状态余弦的现实下，单一共享 LoRA 在线 RL 会先被字数捷径饱和；单共享权重内的在线解耦是下一步独立课题。
-2. **模拟伙伴 vs 真实人类交互**：本仓库伙伴规则稳定可控，用于验证大语言模型一侧无提示权重级具身学习的可行性；人类面对退化、拒绝和有限生命时的博弈规律由配套仓库 [SLA-HCI](https://github.com/0error0warning/SLA-HCI) 承担。
-3. **末期轻任务渗出**：96 轮深度更新下，简单常识题 `D4` 末期仍有 `6.9%–9.7%` 的轻微疲劳尾缀，更长周期交互下仍需加强轻重任务边界护栏。
+---
 
-### 本地运行 CPU 仿真与全量审计
+## 七、本地运行与仓库目录
 
-不依赖 GPU，标准 Python 环境即可运行交互演示盘、参数扫描、单元测试与 `v4` 全量审计：
+本仓库自带一个轻量仿真环境与网页交互台，以及全部实验的校验与测试脚本，在普通 Python 环境下即可运行：
 
 ```bash
 pip install -r requirements.txt
 ```
 
 ```bash
-# 打开 CPU 玩具环境交互面板（http://127.0.0.1:8765）
+# 打开本地交互仿真界面（默认 http://127.0.0.1:8765）
 python run.py
 
-# 跑一组离线/在线策略对比
+# 跑一组离线/在线策略对照
 python evaluate.py --profile balanced --partner mixed --mode online --seed-count 24 --output results.json
 
-# 跑 profile × partner × steering 扫描
+# 跑 profile × partner × steering 参数扫描
 python benchmark.py --seed-count 8 --strengths -2 0 2 --output-dir benchmark-results
 
-# 跑仓库全部单元测试与 v4 30 条生命零误差 CPU 审计
+# 跑单元测试与 v4 实验日志离线复算校验
 python -m unittest discover -s tests -v
 python -m experiments.embodied_open_rl_v4.audit \
   --results-zip artifacts/model-studies/2026-11-18/embodied-open-rl-v4/run/pilot-r7-segments/merged.zip \
   --out /tmp/v4-audit.json
 ```
 
-GitHub Actions 每次推送执行的完整检查清单见 [`.github/workflows/cpu-checks.yml`](.github/workflows/cpu-checks.yml)。
+自动化检查清单见 [`.github/workflows/cpu-checks.yml`](.github/workflows/cpu-checks.yml)。
 
-### 仓库导航与详细报告
+### 详细报告与目录索引
 
-- **研究综合报告与单轮明细**：
-  - [一个多月完整研究思路与实证报告（2026-10-15 至 2026-11-20）](artifacts/model-studies/2026-11-20/monthly-research-report/RESEARCH_REPORT_2026-10-15_to_2026-11-20.md)
-  - [`v4` 30 生命正式实验报告](artifacts/model-studies/2026-11-18/embodied-open-rl-v4/REPORT.md)（另有 [`v1`](artifacts/model-studies/2026-11-17/embodied-open-rl/REPORT.md)、[`v2`](artifacts/model-studies/2026-11-17/embodied-open-rl-v2/REPORT.md)、[`v3`](artifacts/model-studies/2026-11-18/embodied-open-rl-v3/REPORT.md)）
-- **目录与索引**：
-  - `sla_demo/`、`web/`：CPU 仿真环境与浏览器演示台
-  - `experiments/`：各阶段实验代码、协议和校验入口（索引见 [experiments/README.md](experiments/README.md)）
-  - `artifacts/model-studies/`：各轮统计 JSON、Markdown 报告、图表及 CI 验证数据包（索引见 [artifacts/model-studies/README.md](artifacts/model-studies/README.md)；大模型 `.safetensors` 权重和分块临时文件已通过 `.gitignore` 忽略，留存本地）
+- **完整研究报告**：
+  - [一个多月研究思路与完整实证报告（2026-10-15 至 2026-11-20）](artifacts/model-studies/2026-11-20/monthly-research-report/RESEARCH_REPORT_2026-10-15_to_2026-11-20.md)
+  - [`v4` 完整实验报告与逐种子明细](artifacts/model-studies/2026-11-18/embodied-open-rl-v4/REPORT.md)（另有 [`v1`](artifacts/model-studies/2026-11-17/embodied-open-rl/REPORT.md)、[`v2`](artifacts/model-studies/2026-11-17/embodied-open-rl-v2/REPORT.md)、[`v3`](artifacts/model-studies/2026-11-18/embodied-open-rl-v3/REPORT.md)）
+- **仓库目录**：
+  - `sla_demo/`、`web/`：轻量仿真环境与浏览器演示台
+  - `experiments/`：各阶段实验代码、协议和复验脚本（索引见 [experiments/README.md](experiments/README.md)）
+  - `artifacts/model-studies/`：各轮统计 JSON、实验报告、图表与校验包（索引见 [artifacts/model-studies/README.md](artifacts/model-studies/README.md)；大体积模型权重和中间分块包已通过 `.gitignore` 忽略，仅留存在本地）
   - `docs/`：[CPU_STAGE.md](docs/CPU_STAGE.md)、[MODEL_STUDIES.md](docs/MODEL_STUDIES.md)、[ONLINE_LEARNING.md](docs/ONLINE_LEARNING.md)
-  - `tests/`：全部协议与数值单元测试及前端 DOM 回归检查
+  - `tests/`：协议、数值与界面单元测试
